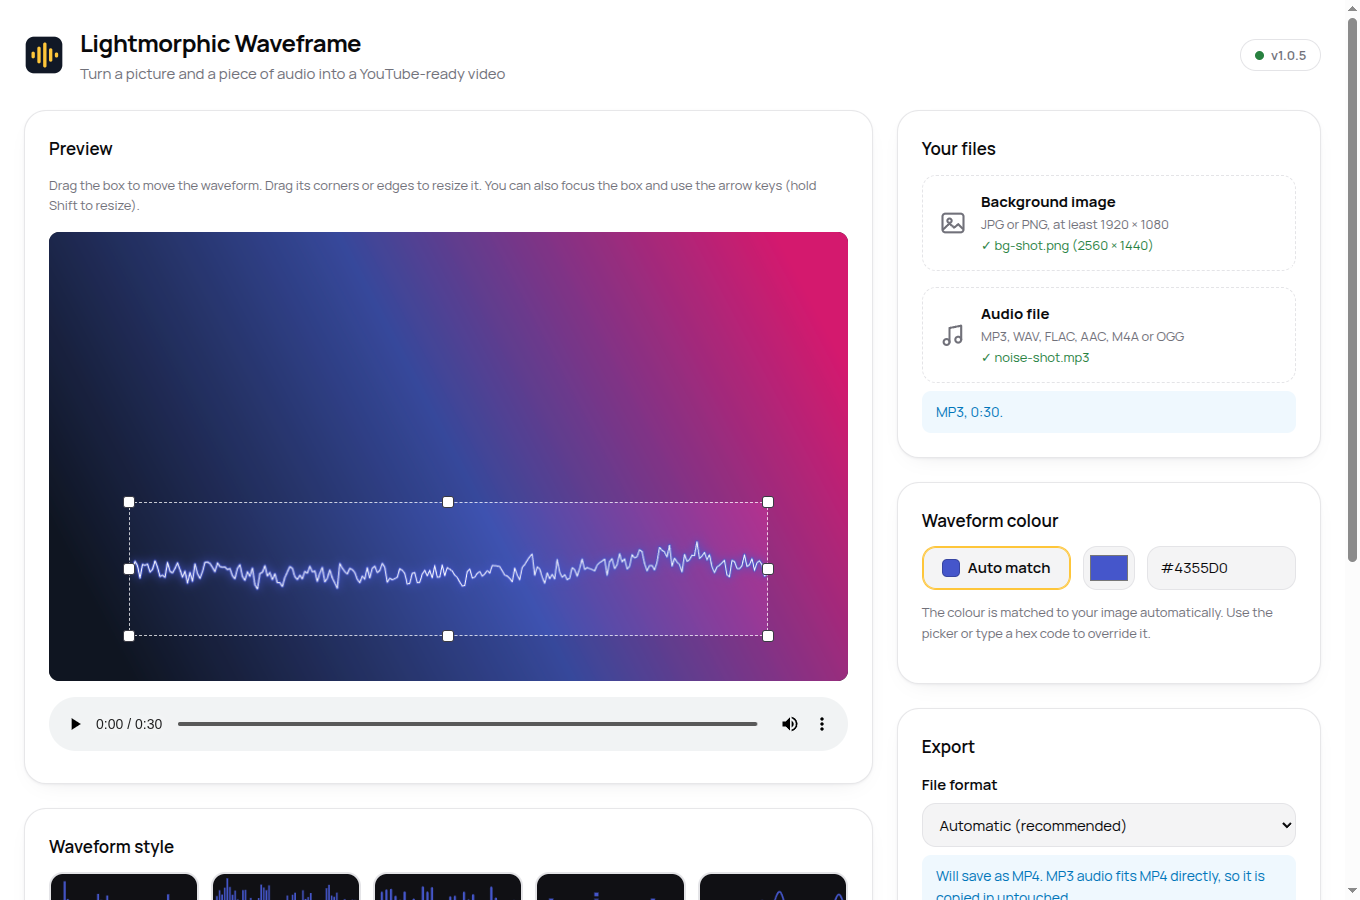
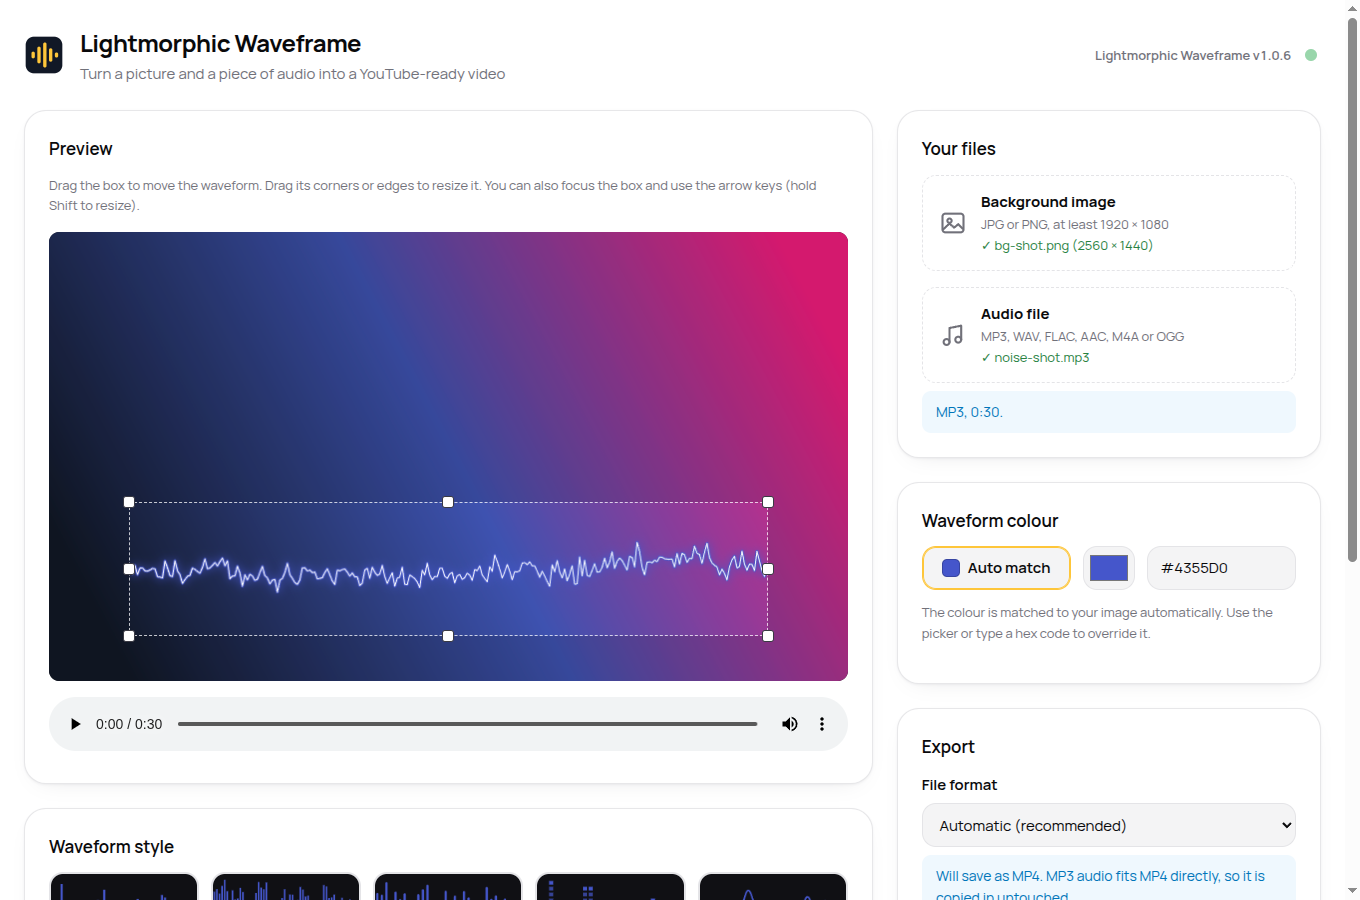
Release v1.0.6: unified update-status dot, matching Charlie's other tools
Replaces the separate version pill and dismissible banner with a single
small dot next to the app name and running version (which links to the
site). Green when current, amber with a download icon when an update is
out, a progress ring while it downloads, green with a restart icon when
ready. Click starts the download or restarts, per state.

diff --git a/src/renderer/app.js b/src/renderer/app.js
@@ -21,8 +21,7 @@ const els = {};
   'colour-auto', 'auto-swatch', 'colour-picker', 'colour-hex', 'container-select',
   'container-note', 'export-btn', 'progress-area', 'progress-bar-wrap', 'progress-fill',
   'progress-text', 'cancel-btn', 'status-area',
-  'update-banner', 'update-text', 'update-action', 'update-dismiss',
-  'version-pill', 'version-label', 'version-state',
+  'update-widget', 'update-widget-version', 'update-dot', 'update-dot-ring-fill',
   'analysis-progress', 'analysis-bar', 'analysis-fill', 'analysis-note',
   'export-blocked',
 ].forEach((id) => {
@@ -701,16 +700,36 @@ els.cancelBtn.addEventListener('click', () => {
 });
 
 // ---------------------------------------------------------------------------
-// App updates: a quiet banner, nothing downloads until asked
+// Update status widget: one dot, five states, no separate banner.
+// See the update-widget skill for the full state spec this implements.
 // ---------------------------------------------------------------------------
 
-const updateUi = { mode: null };
+const RING_RADIUS = 8;
+const RING_CIRCUMFERENCE = 2 * Math.PI * RING_RADIUS;
+els.updateDotRingFill.style.strokeDasharray = String(RING_CIRCUMFERENCE);
 
-// state: 'unknown' (grey), 'current' (green), 'attention' (amber)
-function setVersionState(state, words) {
-  els.versionPill.dataset.state = state;
-  els.versionPill.title = words;
-  els.versionState.textContent = words;
+const UPDATE_DOT_LABELS = {
+  current: 'Up to date',
+  available: 'Update available — click to download',
+  downloading: 'Downloading the update',
+  downloaded: 'Click to restart the app',
+  error: "Can't connect to GitHub",
+};
+
+let updateState = null;
+
+function setUpdateDot(state, overrideLabel) {
+  updateState = state;
+  els.updateDot.dataset.state = state;
+  els.updateDot.disabled = state !== 'available' && state !== 'downloaded';
+  const label = overrideLabel || UPDATE_DOT_LABELS[state] || '';
+  els.updateDot.title = label;
+  els.updateDot.setAttribute('aria-label', label);
+}
+
+function setRingProgress(fraction) {
+  const offset = RING_CIRCUMFERENCE * (1 - Math.max(0, Math.min(1, fraction)));
+  els.updateDotRingFill.style.strokeDashoffset = String(offset);
 }
 
 window.waveframe.onAnalysisProgress(({ percent }) => {
@@ -721,62 +740,48 @@ window.waveframe.onAnalysisProgress(({ percent }) => {
   }
 });
 
-window.waveframe.appInfo().then(({ version, packaged }) => {
-  els.versionLabel.textContent = `v${version}`;
-  if (!packaged) {
-    setVersionState('unknown', 'Development run; update checks happen in the installed app');
-  }
+// The label always shows the version actually running, not the one being
+// downloaded — it only changes again after a real restart.
+window.waveframe.appInfo().then(({ version }) => {
+  els.updateWidgetVersion.textContent = `v${version}`;
 });
-
-function showUpdateBanner(text, buttonLabel, mode) {
-  els.updateBanner.hidden = false;
-  els.updateText.textContent = text;
-  els.updateAction.hidden = !buttonLabel;
-  if (buttonLabel) els.updateAction.textContent = buttonLabel;
-  updateUi.mode = mode;
-}
 
 window.waveframe.onUpdateState((state) => {
   if (state.status === 'none') {
-    setVersionState('current', 'You are on the latest version');
-    return;
-  }
-  if (state.status === 'available' || state.status === 'downloading') {
-    setVersionState('attention', 'A newer version is available');
-  } else if (state.status === 'downloaded') {
-    setVersionState('attention', 'Update downloaded; restart to install it');
-  }
-  if (state.status === 'available') {
-    showUpdateBanner(`Waveframe ${state.version} is out. Updating is free and takes a minute.`,
-      'Get the update', 'download');
+    setUpdateDot('current');
+  } else if (state.status === 'available') {
+    setUpdateDot('available');
   } else if (state.status === 'downloading') {
-    showUpdateBanner(`Downloading the update, ${state.percent}%.`, null, null);
+    setUpdateDot('downloading');
+    setRingProgress(state.percent / 100);
   } else if (state.status === 'downloaded') {
-    showUpdateBanner(`Update ready. Waveframe ${state.version} will be installed when the app restarts.`,
-      'Restart now', 'install');
-  } else if (state.status === 'error' && updateUi.mode === null && !els.updateBanner.hidden) {
-    // Only mention errors if the user was mid-update; a failed background
-    // check just tries again later.
-    showUpdateBanner('The update could not be downloaded. It will try again later.', null, null);
+    setUpdateDot('downloaded');
+  } else if (state.status === 'error') {
+    // Red interrupts whatever the dot was showing, including mid-download.
+    setUpdateDot('error');
   }
+  // Nothing to check in a dev run, so the widget stays hidden until the
+  // packaged app's first real check result arrives.
+  els.updateWidget.hidden = false;
 });
 
-els.updateAction.addEventListener('click', async () => {
-  if (updateUi.mode === 'download') {
-    els.updateAction.hidden = true;
-    els.updateText.textContent = 'Starting the download.';
-    updateUi.mode = null;
+els.updateDot.addEventListener('click', async () => {
+  if (updateState === 'available') {
+    setUpdateDot('downloading');
+    setRingProgress(0);
     await window.waveframe.updateDownload();
-  } else if (updateUi.mode === 'install') {
+  } else if (updateState === 'downloaded') {
     const result = await window.waveframe.updateInstall();
     if (result.error) {
-      els.updateText.textContent = result.error;
+      // Can't restart right now (an export is running). Say why through
+      // the dot's own label rather than adding separate UI for it, then
+      // drop back to the normal "ready" wording after a few seconds.
+      setUpdateDot('downloaded', result.error);
+      setTimeout(() => {
+        if (updateState === 'downloaded') setUpdateDot('downloaded');
+      }, 6000);
     }
   }
-});
-
-els.updateDismiss.addEventListener('click', () => {
-  els.updateBanner.hidden = true;
 });
 
 // Drops anywhere outside the two dropzones must not make Chromium

diff --git a/src/renderer/style.css b/src/renderer/style.css
@@ -22,6 +22,13 @@
   --warning: #8f6c03;  --warning-bg: #fffbee;
   --info: #1b74bc;     --info-bg: #f0f8fe;
 
+  /* Update-widget dot: the exact Lightmorphic palette hues, fixed in
+     both themes (unlike --success/--warning above, which are darkened
+     per-theme for AA text contrast — the dot is a fill, not text). */
+  --update-green: #4bae4f;
+  --update-amber: #ffc006;
+  --update-red: #f34236;
+
   --radius: 0.875rem;
   --panel-radius: 1.375rem;
   --stage-bg: #101014;
@@ -74,30 +81,97 @@ body {
 }
 .logo { flex-shrink: 0; }
 
-/* Version pill: background-coloured lozenge with an outline, per house
-   style. The dot is a quick read; the title and hidden text say it in
-   words. */
-.version-pill {
+/* Update status widget: app name + running version as one link out to the
+   site, immediately followed by the status dot. The dot's colour and
+   overlay icon are the whole update UI — see the update-widget skill. */
+.update-widget {
   margin-left: auto;
   display: inline-flex;
   align-items: center;
-  gap: 0.45rem;
-  background: var(--bg);
-  border: 1px solid var(--border);
-  border-radius: 999px;
-  padding: 0.3rem 0.85rem;
+  gap: 0.6rem;
+}
+.update-widget[hidden] { display: none; }
+.update-widget-link {
   font-size: 0.8125rem;
   font-weight: 600;
   color: var(--muted-fg);
+  text-decoration: none;
 }
-.version-dot {
-  width: 9px;
-  height: 9px;
+.update-widget-link:hover { color: var(--fg); }
+.update-widget-version { font-variant-numeric: tabular-nums; }
+
+.update-dot {
+  position: relative;
+  width: 20px;
+  height: 20px;
+  padding: 0;
+  border: none;
+  background: none;
+  border-radius: 50%;
+  cursor: default;
+  flex-shrink: 0;
+}
+.update-dot::before {
+  /* The solid dot itself; the ring and overlay icons sit above it. */
+  content: '';
+  position: absolute;
+  inset: 4px;
   border-radius: 50%;
   background: var(--muted-fg);
 }
-.version-pill[data-state="current"] .version-dot { background: var(--success); }
-.version-pill[data-state="attention"] .version-dot { background: var(--warning); }
+.update-dot[data-state="current"]::before { background: var(--update-green); }
+.update-dot[data-state="available"]::before { background: var(--update-amber); }
+.update-dot[data-state="downloaded"]::before { background: var(--update-green); }
+.update-dot[data-state="error"]::before { background: var(--update-red); }
+.update-dot[data-state="available"],
+.update-dot[data-state="downloaded"] {
+  cursor: pointer;
+}
+.update-dot[data-state="downloading"]::before { background: none; }
+
+.update-dot-ring {
+  position: absolute;
+  inset: 0;
+  width: 100%;
+  height: 100%;
+  display: none;
+  transform: rotate(-90deg);
+}
+.update-dot[data-state="downloading"] .update-dot-ring { display: block; }
+.update-dot-ring-track {
+  fill: none;
+  stroke: var(--border);
+  stroke-width: 2;
+}
+.update-dot-ring-fill {
+  fill: none;
+  stroke: var(--update-amber);
+  stroke-width: 2;
+  stroke-linecap: round;
+  /* 2 * PI * r(8) = 50.27; dash math is set from JS as the ring fills. */
+  stroke-dasharray: 50.27;
+  stroke-dashoffset: 50.27;
+  transition: stroke-dashoffset 0.15s linear;
+}
+
+.update-dot-icon {
+  position: absolute;
+  inset: 4px;
+  width: 12px;
+  height: 12px;
+  display: none;
+  pointer-events: none;
+}
+/* Each overlay only ever appears on its own state's background, so each
+   gets the icon colour that reads best on that specific fill. */
+#update-dot-icon-download { color: var(--brand-navy); }
+#update-dot-icon-restart { color: #ffffff; }
+.update-dot[data-state="available"] #update-dot-icon-download { display: block; }
+.update-dot[data-state="downloaded"] #update-dot-icon-restart { display: block; }
+.update-dot:focus-visible {
+  outline: 2px solid var(--accent);
+  outline-offset: 2px;
+}
 
 .layout {
   display: grid;
@@ -134,30 +208,6 @@ body {
   color: var(--muted-fg);
   font-size: 0.8125rem;
   margin: 0 0 1rem;
-}
-
-/* ---- Update banner ---- */
-.update-banner {
-  display: flex;
-  align-items: center;
-  gap: 1rem;
-  max-width: 1400px;
-  margin: 0 auto 1.5rem;
-  background: var(--info-bg);
-  color: var(--info);
-  border: 1px solid var(--border);
-  border-radius: var(--radius);
-  padding: 0.6rem 1rem;
-}
-.update-banner[hidden] { display: none; }
-.update-banner p { margin: 0; flex: 1; font-size: 0.9375rem; }
-.update-banner .btn-secondary[hidden] { display: none; }
-.update-dismiss {
-  background: none;
-  border: none;
-  color: inherit;
-  padding: 0.35rem;
-  display: inline-flex;
 }
 
 /* ---- Preview stage ---- */

diff --git a/src/renderer/index.html b/src/renderer/index.html
@@ -24,23 +24,30 @@
     <h1>Lightmorphic Waveframe</h1>
     <p class="tagline">Turn a picture and a piece of audio into a YouTube-ready video</p>
   </div>
-  <p class="version-pill" id="version-pill" role="status" title="Checking for updates">
-    <span class="version-dot" id="version-dot" aria-hidden="true"></span>
-    <span id="version-label"></span>
-    <span class="visually-hidden" id="version-state">Checking for updates</span>
-  </p>
-</header>
 
-<div class="update-banner" id="update-banner" hidden>
-  <p id="update-text"></p>
-  <button type="button" class="btn-secondary" id="update-action"></button>
-  <button type="button" class="update-dismiss" id="update-dismiss" aria-label="Hide update message">
-    <svg viewBox="0 0 16 16" width="14" height="14" aria-hidden="true" fill="none"
-         stroke="currentColor" stroke-width="2" stroke-linecap="round">
-      <path d="M3 3l10 10M13 3L3 13"/>
-    </svg>
-  </button>
-</div>
+  <div class="update-widget" id="update-widget" hidden>
+    <a class="update-widget-link" id="update-widget-link"
+       href="https://waveframe.lightmorphic.co.uk" target="_blank" rel="noopener noreferrer">
+      Lightmorphic Waveframe <span class="update-widget-version" id="update-widget-version"></span>
+    </a>
+    <button type="button" class="update-dot" id="update-dot">
+      <svg class="update-dot-ring" viewBox="0 0 20 20" aria-hidden="true">
+        <circle class="update-dot-ring-track" cx="10" cy="10" r="8"/>
+        <circle class="update-dot-ring-fill" id="update-dot-ring-fill" cx="10" cy="10" r="8"/>
+      </svg>
+      <svg class="update-dot-icon" id="update-dot-icon-download" viewBox="0 0 20 20" aria-hidden="true">
+        <path d="M10 4v8m0 0l-3.2-3.2M10 12l3.2-3.2M5 15h10"
+              fill="none" stroke="currentColor" stroke-width="1.6"
+              stroke-linecap="round" stroke-linejoin="round"/>
+      </svg>
+      <svg class="update-dot-icon" id="update-dot-icon-restart" viewBox="0 0 20 20" aria-hidden="true">
+        <path d="M15 6.5A5.8 5.8 0 1 0 16 10.2M15 6.5V3m0 3.5h-3.5"
+              fill="none" stroke="currentColor" stroke-width="1.6"
+              stroke-linecap="round" stroke-linejoin="round"/>
+      </svg>
+    </button>
+  </div>
+</header>
 
 <main class="layout">
   <div class="col-main">

diff --git a/test/run-tests.js b/test/run-tests.js
@@ -209,10 +209,13 @@ async function boxAndPreviewCase() {
     }
     check('every style previews without errors', styleErrors.length === 0, styleErrors[0]);
 
-    // Version pill shows the app version.
+    // Update widget's version label is wired up (the widget itself stays
+    // hidden in this dev run: no packaged app means no update checks).
     await page.waitForFunction(() =>
-      /^v\d+\.\d+\.\d+$/.test(document.getElementById('version-label').textContent));
-    check('version pill shows the version', true);
+      /^v\d+\.\d+\.\d+$/.test(document.getElementById('update-widget-version').textContent));
+    check('update widget shows the running version', true);
+    const widgetHiddenInDev = await page.$eval('#update-widget', (el) => el.hidden);
+    check('update widget stays hidden with no update check to report', widgetHiddenInDev);
 
     // Colour override via hex field.
     await page.fill('#colour-hex', '#03A8F3');

diff --git a/CHANGELOG.md b/CHANGELOG.md
@@ -1,5 +1,14 @@
 # Changelog
 
+## [1.0.6] - 2026-08-10
+
+- The update indicator is now a single small dot next to the app name,
+  matching the style used across Lightmorphic's other tools: green when
+  you are current, amber with a download icon when an update is out
+  (click it to fetch), a progress ring while it downloads, then green
+  with a restart icon when it is ready (click to restart). Replaces the
+  separate version pill and banner.
+
 ## [1.0.5] - 2026-08-10
 
 - Fixed a crash ("Error: write EPIPE") that could appear while an update
